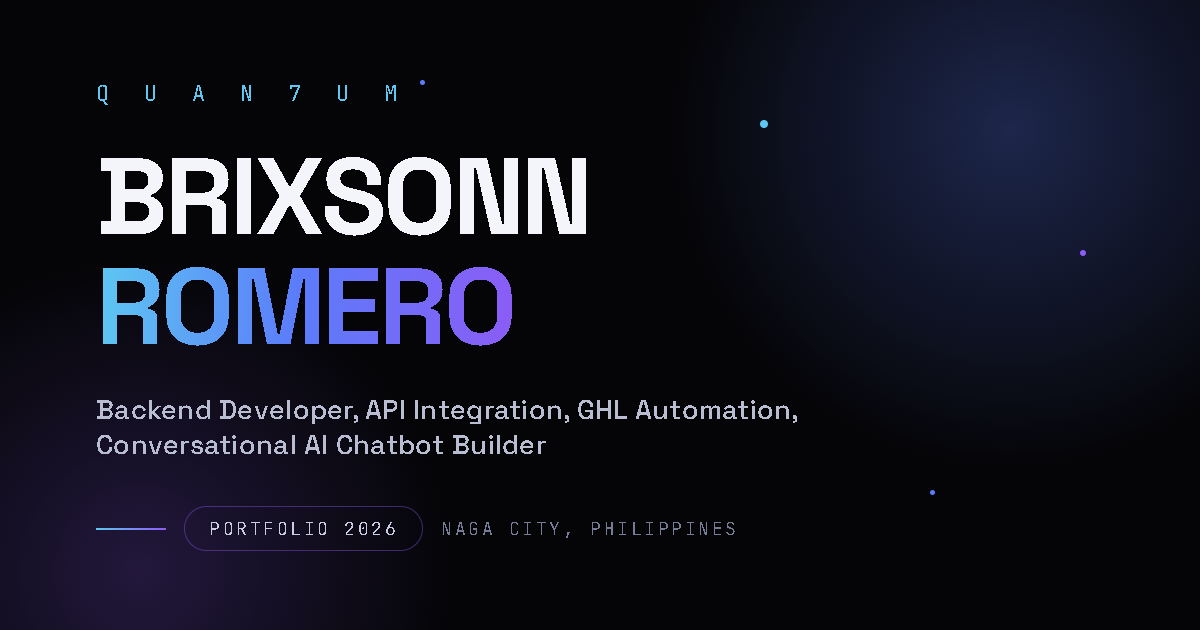
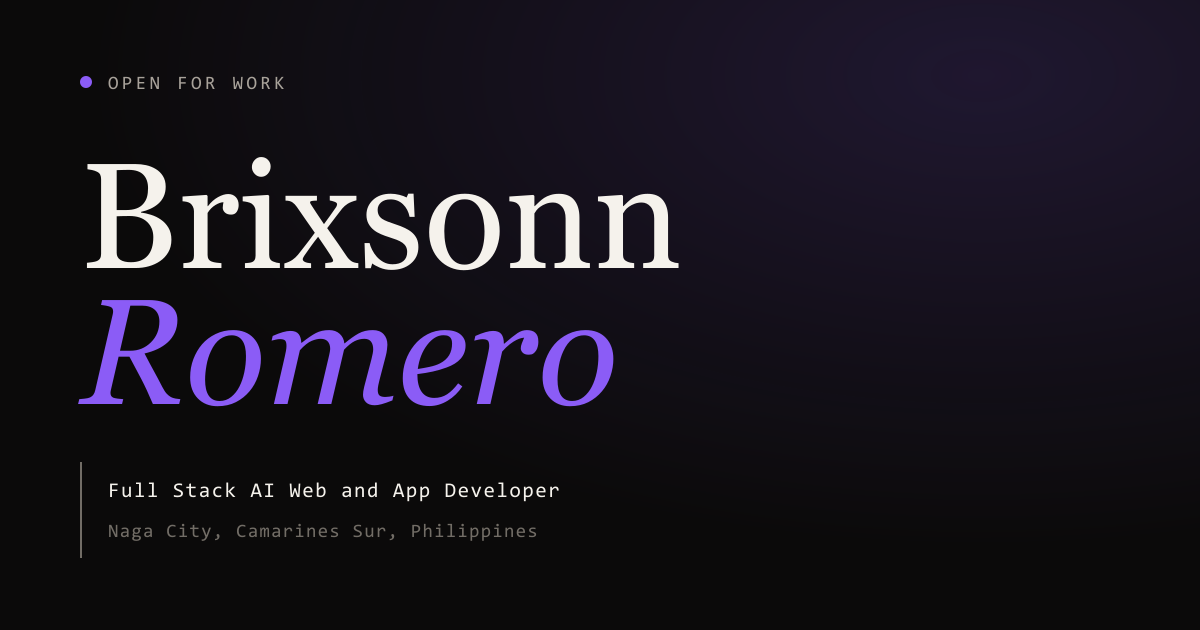
feat(site): add workflow section, replace QUAN7UM brand assets with typographic identity

diff --git a/index.html b/index.html
@@ -2,30 +2,31 @@
 <html lang="en">
   <head>
     <meta charset="UTF-8" />
-    <link rel="icon" type="image/png" href="/favicon.png?v=2" />
-    <link rel="apple-touch-icon" href="/favicon.png?v=2" />
+    <link rel="icon" type="image/svg+xml" href="/favicon.svg?v=3" />
+    <link rel="icon" type="image/png" href="/favicon.png?v=3" />
+    <link rel="apple-touch-icon" href="/favicon.png?v=3" />
     <meta name="viewport" content="width=device-width, initial-scale=1.0" />
     <meta name="theme-color" content="#0b0a0a" />
     <meta
       name="description"
       content="Brixsonn M. Romero, Full Stack AI Web and App Developer. I build web and mobile apps using AI agents to write the code and software engineering fundamentals, system architecture, data modelling and security, to catch what they get wrong. Five client platforms and eight personal builds."
     />
-    <title>Brixsonn M. Romero — Full Stack AI Web and App Developer</title>
+    <title>Brixsonn M. Romero — Full Stack AI Developer</title>
 
     <meta property="og:type" content="website" />
     <meta property="og:title" content="Brixsonn M. Romero — Full Stack AI Web and App Developer" />
     <meta
       property="og:description"
-      content="Full Stack AI Web and App Developer. Production platforms built with AI agents and computer science fundamentals. See my client platforms, projects, and Anthropic certifications."
+      content="AI agents write the code. Software engineering decides what ships. Five client platforms, eight personal builds, seven Anthropic certificates."
     />
-    <meta property="og:image" content="/og.png" />
+    <meta property="og:image" content="/og.png?v=3" />
     <meta name="twitter:card" content="summary_large_image" />
     <meta name="twitter:title" content="Brixsonn M. Romero — Full Stack AI Web and App Developer" />
     <meta
       name="twitter:description"
-      content="Full Stack AI Web and App Developer. Production platforms built with AI agents and computer science fundamentals."
+      content="AI agents write the code. Software engineering decides what ships. Five client platforms, eight personal builds."
     />
-    <meta name="twitter:image" content="/og.png" />
+    <meta name="twitter:image" content="/og.png?v=3" />
 
     <link rel="preconnect" href="https://fonts.googleapis.com" />
     <link rel="preconnect" href="https://fonts.gstatic.com" crossorigin />

diff --git a/src/components/ProcessSection.tsx b/src/components/ProcessSection.tsx
@@ -1,0 +1,49 @@
+import { workflow } from '../data/profile'
+import { SectionHeader } from './shared/SectionHeader'
+import { Reveal } from './shared/Reveal'
+import { ScrollFillText } from './shared/ScrollFillText'
+
+/**
+ * The answer to "did you actually build this, or did AI?". Speed comes from
+ * step three; everything either side of it is why the output holds up.
+ */
+export function ProcessSection() {
+  return (
+    <section id="process" className="relative scroll-mt-16 border-t border-line px-6 py-24 sm:px-10 lg:px-14 lg:py-32">
+      <SectionHeader index="03" label="How I work" />
+
+      <div className="mt-10 grid gap-8 lg:grid-cols-12">
+        <h2 className="display lg:col-span-7" style={{ fontSize: 'var(--text-step-4)' }}>
+          <ScrollFillText text="Nothing ships because it looks finished." />
+        </h2>
+        <Reveal delay={0.12} y={16} className="lg:col-span-5 lg:pt-3">
+          <p className="prose-body text-muted">
+            Same nine steps on every build, client work or my own. The writing part is fast now.
+            The deciding, checking and breaking parts are still mine, and they are what the job
+            actually is.
+          </p>
+        </Reveal>
+      </div>
+
+      <ol className="mt-16 lg:mt-20">
+        {workflow.map((step, i) => (
+          <Reveal key={step.name} y={24} delay={(i % 3) * 0.06}>
+            <li className="grid gap-3 border-t border-line py-7 lg:grid-cols-12 lg:items-baseline lg:gap-10">
+              <div className="flex items-baseline gap-5 lg:col-span-4">
+                <span className="display leading-none text-faint" style={{ fontSize: 'var(--text-step-2)' }}>
+                  {String(i + 1).padStart(2, '0')}
+                </span>
+                <h3 className="display leading-none text-ink" style={{ fontSize: 'var(--text-step-2)' }}>
+                  {step.name}
+                </h3>
+              </div>
+              <p className="max-w-[62ch] text-[15px] leading-[1.75] text-muted lg:col-span-8">
+                {step.detail}
+              </p>
+            </li>
+          </Reveal>
+        ))}
+      </ol>
+    </section>
+  )
+}

diff --git a/src/data/profile.ts b/src/data/profile.ts
@@ -33,6 +33,55 @@ export const profile = {
   },
 }
 
+/** the same pass every build goes through, in order */
+export const workflow = [
+  {
+    name: 'Brainstorm',
+    detail:
+      'Work out what the thing actually needs to do before any code exists. Who uses it, what breaks if it gets this wrong, and what is deliberately out of scope.',
+  },
+  {
+    name: 'Plan',
+    detail:
+      'Write it down: the data model, the screens, and the order things get built in. If I cannot explain the plan in plain words, I do not understand the problem yet.',
+  },
+  {
+    name: 'Execute',
+    detail:
+      'AI agents write the code against that plan, one piece at a time. Small pieces, because a change I cannot read in one sitting is a change I cannot check.',
+  },
+  {
+    name: 'Code review',
+    detail:
+      'I read every diff. Looking for logic that is subtly wrong, code that repeats itself, and anything that quietly does more than it claims to.',
+  },
+  {
+    name: 'Security review',
+    detail:
+      'Anything touching sign-in, permissions, payments or personal data gets a second pass. Who can reach this, and what happens when someone reaches it who should not.',
+  },
+  {
+    name: 'Refine',
+    detail:
+      'Fix what those two passes turned up. Usually naming, edge cases, and what the app does when something fails rather than when everything works.',
+  },
+  {
+    name: 'Review',
+    detail:
+      'Read the whole thing again with fresh eyes, as one system instead of a stack of separate changes. Problems hide in the seams between good parts.',
+  },
+  {
+    name: 'Testing',
+    detail:
+      'Use it like someone trying to break it. Wrong inputs, dead connection, double taps, tiny screens, the back button at the worst possible moment.',
+  },
+  {
+    name: 'Ship',
+    detail:
+      'Deploy it, then keep using it in production and watch what real people actually do. That is where the last round of fixes comes from.',
+  },
+]
+
 /** grouped so the reader can see shape, not just an alphabet soup of chips */
 export const techGroups = [
   {

diff --git a/src/components/Navbar.tsx b/src/components/Navbar.tsx
@@ -5,11 +5,12 @@ import { profile } from '../data/profile'
 // labels mirror the section eyebrows exactly so the nav and the page agree
 const links = [
   { label: 'ABOUT', index: '01', href: '#about', id: 'about' },
-  { label: 'CLIENT WORK', index: '03', href: '#experience', id: 'experience' },
-  { label: 'PROJECTS', index: '04', href: '#projects', id: 'projects' },
-  { label: 'CERTIFICATIONS', index: '05', href: '#certifications', id: 'certifications' },
-  { label: 'EDUCATION', index: '06', href: '#education', id: 'education' },
-  { label: 'CONTACT', index: '07', href: '#contact', id: 'contact' },
+  { label: 'HOW I WORK', index: '03', href: '#process', id: 'process' },
+  { label: 'CLIENT WORK', index: '04', href: '#experience', id: 'experience' },
+  { label: 'PROJECTS', index: '05', href: '#projects', id: 'projects' },
+  { label: 'CERTIFICATIONS', index: '06', href: '#certifications', id: 'certifications' },
+  { label: 'EDUCATION', index: '07', href: '#education', id: 'education' },
+  { label: 'CONTACT', index: '08', href: '#contact', id: 'contact' },
 ]
 
 export function Navbar() {

diff --git a/src/App.tsx b/src/App.tsx
@@ -7,6 +7,7 @@ import { Navbar } from './components/Navbar'
 import { Hero } from './components/Hero'
 import { About } from './components/About'
 import { TechStack } from './components/TechStack'
+import { ProcessSection } from './components/ProcessSection'
 import { ExperienceSection } from './components/ExperienceSection'
 import { ProjectsSection } from './components/ProjectsSection'
 import { CertificationsSection } from './components/CertificationsSection'
@@ -51,6 +52,7 @@ export default function App() {
             <Hero />
             <About />
             <TechStack />
+            <ProcessSection />
             <ExperienceSection />
             <ProjectsSection />
             <CertificationsSection />

diff --git a/src/components/CertificationsSection.tsx b/src/components/CertificationsSection.tsx
@@ -11,7 +11,7 @@ export function CertificationsSection() {
 
   return (
     <section id="certifications" className="relative scroll-mt-16 overflow-hidden border-t border-line px-6 py-24 sm:px-10 lg:px-14 lg:py-32">
-      <SectionHeader index="05" label="Certifications" />
+      <SectionHeader index="06" label="Certifications" />
 
       <div className="mt-10 flex flex-wrap items-end justify-between gap-5">
         <h2 className="display" style={{ fontSize: 'var(--text-step-4)' }}>

diff --git a/src/components/ProjectsSection.tsx b/src/components/ProjectsSection.tsx
@@ -132,7 +132,7 @@ export function ProjectsSection() {
 
   return (
     <section id="projects" className="relative scroll-mt-16 overflow-hidden border-t border-line px-6 py-24 sm:px-10 lg:px-14 lg:py-32">
-      <SectionHeader index="04" label="Personal projects" />
+      <SectionHeader index="05" label="Personal projects" />
 
       <div className="mt-10 grid gap-8 lg:grid-cols-12">
         <h2 className="display lg:col-span-7" style={{ fontSize: 'var(--text-step-4)' }}>

diff --git a/src/components/ExperienceSection.tsx b/src/components/ExperienceSection.tsx
@@ -162,7 +162,7 @@ export function ExperienceSection() {
 
   return (
     <section id="experience" className="relative scroll-mt-16 border-t border-line px-6 py-24 sm:px-10 lg:px-14 lg:py-32">
-      <SectionHeader index="03" label="Client work" />
+      <SectionHeader index="04" label="Client work" />
 
       <div className="mt-10 grid gap-8 lg:grid-cols-12">
         <h2 className="display lg:col-span-7" style={{ fontSize: 'var(--text-step-4)' }}>

diff --git a/src/components/Contact.tsx b/src/components/Contact.tsx
@@ -29,7 +29,7 @@ export function Contact() {
       id="contact"
       className="relative scroll-mt-16 overflow-hidden border-t border-line px-6 pb-24 pt-24 sm:px-10 lg:px-14 lg:pt-32"
     >
-      <SectionHeader index="07" label="Contact" />
+      <SectionHeader index="08" label="Contact" />
 
       <div className="mt-12 grid gap-12 lg:mt-16 lg:grid-cols-12 lg:gap-10">
         <div className="lg:col-span-7">

diff --git a/src/components/EducationSection.tsx b/src/components/EducationSection.tsx
@@ -7,7 +7,7 @@ export function EducationSection() {
 
   return (
     <section id="education" className="scroll-mt-16 border-t border-line px-6 py-24 sm:px-10 lg:px-14 lg:py-32">
-      <SectionHeader index="06" label="Education" />
+      <SectionHeader index="07" label="Education" />
 
       <div className="mt-10 grid gap-12 lg:grid-cols-12 lg:gap-10">
         <Reveal delay={0.1} className="lg:col-span-5">
